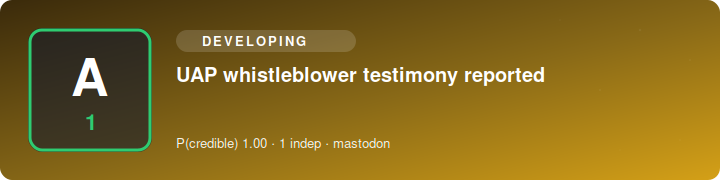
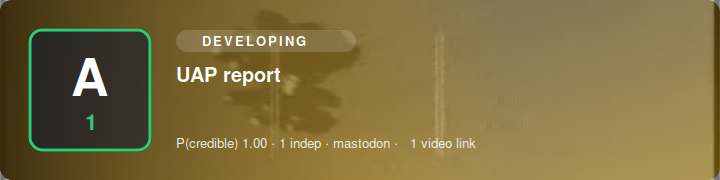
SITREP 2026-07-26 22:10 UTC

diff --git a/index.html b/index.html
@@ -1,1 +1,1 @@
-<!doctype html><meta charset=utf-8><title>Science Bob News — SITREP</title><style>body{font:16px/1.5 system-ui,sans-serif;max-width:760px;margin:2rem auto;padding:0 1rem;color:#111}h1{font-size:1.5rem}h2{margin-top:1.6rem;border-bottom:1px solid #ddd;padding-bottom:.2rem}ul{list-style:none;padding:0}li{margin:.9rem 0}.hl{font-weight:600}.meta{color:#555;font-size:.85rem}.src{font-size:.85rem}.vid{font-size:.85rem;margin-top:.15rem}.card{display:block;max-width:100%;height:auto;border-radius:8px;margin:.4rem 0 .5rem}.upd{background:#fde68a;padding:0 .3rem;border-radius:.2rem;font-size:.75rem}.sub{color:#777;font-size:.85rem}footer{color:#777;font-size:.8rem;margin-top:2rem;border-top:1px solid #ddd;padding-top:.6rem}</style><h1>🛸 Science Bob News</h1><div class="sub">UAP / UFO / USO SITREP · updated 2026-07-26 22:00 UTC · automated</div><h2>Corroborated</h2><ul><li><img class="card" src="https://n4hy.github.io/sciencebobnews-site/card_c_1.svg" alt="" width="720" height="180"><div class="hl">UAP report</div><div class="meta">reliability <b>A1</b> · P(credible)=1.0 · 2 independent source(s) · mastodon</div><div class="src"><a href="https://tristanmowrey.com/2026/07/24/uap-video/">@tristanmowrey@tristanmowrey.com</a> · <a href="https://mysterioustimes.co.uk/2026/07/26/short-story-sunday-the-tide-between-the-stars/">@kdraven@mysterioustimes.co.uk</a></div><div class="vid">📹 <a href="https://youtu.be/QEWgEDRv_6c">video</a></div></li></ul><h2>Developing / unconfirmed</h2><ul><li><img class="card" src="https://n4hy.github.io/sciencebobnews-site/card_d_1.svg" alt="" width="720" height="180"><div class="hl">UAP report</div><div class="meta">reliability <b>A1</b> · P(credible)=1.0 · 1 independent source(s) · mastodon</div><div class="src"><a href="https://mamot.fr/@lacaverneeclairee/116986840363279797">@lacaverneeclairee@mamot.fr</a></div></li><li><img class="card" src="https://n4hy.github.io/sciencebobnews-site/card_d_2.svg" alt="" width="720" height="180"><div class="hl">Official UAP statement reported</div><div class="meta">reliability <b>A1</b> · P(credible)=1.0 · 1 independent source(s) · mastodon</div><div class="src"><a href="https://mastodon.au/@vibewire/116988203427523425">@vibewire@mastodon.au</a></div></li><li><img class="card" src="https://n4hy.github.io/sciencebobnews-site/card_d_3.svg" alt="" width="720" height="180"><div class="hl">UAP whistleblower testimony reported</div><div class="meta">reliability <b>A1</b> · P(credible)=1.0 · 1 independent source(s) · mastodon</div><div class="src"><a href="https://mastodon.social/@ScienceBob/116988366708384724">@ScienceBob</a></div></li><li><img class="card" src="https://n4hy.github.io/sciencebobnews-site/card_d_4.svg" alt="" width="720" height="180"><div class="hl">UAP report (Usa)</div><div class="meta">reliability <b>A1</b> · P(credible)=1.0 · 1 independent source(s) · mastodon</div><div class="src"><a href="https://bsky.brid.gy/r/https://bsky.app/profile/did:plc:ahhoo6g75dgdbrumz3eosoax/post/3mrk6knuhbc2g">@willamateurish.bsky.social@bsky.brid.gy</a></div></li><li><img class="card" src="https://n4hy.github.io/sciencebobnews-site/card_d_5.svg" alt="" width="720" height="180"><div class="hl">UAP report</div><div class="meta">reliability <b>A1</b> · P(credible)=1.0 · 2 independent source(s) · mastodon</div><div class="src"><a href="https://www.nytimes.com/2026/07/26/us/paul-andrews-dead.html">@nyt_us@robot.villas</a> · <a href="https://www.nytimes.com/2026/07/26/us/paul-andrews-dead.html">@nyt_science@robot.villas</a></div></li></ul><footer><b>Powered by Science Bob News.</b> Free to use with credit (see LICENSE). Headlines are factual restatements in the engine's own words; click sources for originals. Single-origin reposts collapse to one source; prosaic candidates flagged where offered.</footer>
+<!doctype html><meta charset=utf-8><title>Science Bob News — SITREP</title><style>body{font:16px/1.5 system-ui,sans-serif;max-width:760px;margin:2rem auto;padding:0 1rem;color:#111}h1{font-size:1.5rem}h2{margin-top:1.6rem;border-bottom:1px solid #ddd;padding-bottom:.2rem}ul{list-style:none;padding:0}li{margin:.9rem 0}.hl{font-weight:600}.meta{color:#555;font-size:.85rem}.src{font-size:.85rem}.vid{font-size:.85rem;margin-top:.15rem}.card{display:block;max-width:100%;height:auto;border-radius:8px;margin:.4rem 0 .5rem}.upd{background:#fde68a;padding:0 .3rem;border-radius:.2rem;font-size:.75rem}.sub{color:#777;font-size:.85rem}footer{color:#777;font-size:.8rem;margin-top:2rem;border-top:1px solid #ddd;padding-top:.6rem}</style><h1>🛸 Science Bob News</h1><div class="sub">UAP / UFO / USO SITREP · updated 2026-07-26 22:10 UTC · automated</div><h2>Corroborated</h2><ul><li><i>No corroborated reports.</i></li></ul><h2>Developing / unconfirmed</h2><ul><li><img class="card" src="https://n4hy.github.io/sciencebobnews-site/card_d_1.svg" alt="" width="720" height="180"><div class="hl">UAP report</div><div class="meta">reliability <b>A1</b> · P(credible)=1.0 · 1 independent source(s) · mastodon</div><div class="src"><a href="https://mamot.fr/@lacaverneeclairee/116986840363279797">@lacaverneeclairee@mamot.fr</a></div></li><li><img class="card" src="https://n4hy.github.io/sciencebobnews-site/card_d_2.svg" alt="" width="720" height="180"><div class="hl">UAP whistleblower testimony reported</div><div class="meta">reliability <b>A1</b> · P(credible)=1.0 · 1 independent source(s) · mastodon</div><div class="src"><a href="https://mastodon.social/@ScienceBob/116988523994448104">@ScienceBob</a></div></li><li><img class="card" src="https://n4hy.github.io/sciencebobnews-site/card_d_3.svg" alt="" width="720" height="180"><div class="hl">UAP report</div><div class="meta">reliability <b>A1</b> · P(credible)=1.0 · 1 independent source(s) · mastodon</div><div class="src"><a href="https://tristanmowrey.com/2026/07/24/uap-video/">@tristanmowrey@tristanmowrey.com</a></div><div class="vid">📹 <a href="https://youtu.be/QEWgEDRv_6c">video</a></div></li></ul><footer><b>Powered by Science Bob News.</b> Free to use with credit (see LICENSE). Headlines are factual restatements in the engine's own words; click sources for originals. Single-origin reposts collapse to one source; prosaic candidates flagged where offered.</footer>

diff --git a/sitrep.md b/sitrep.md
@@ -1,13 +1,8 @@
 # 🛸 Science Bob News — UAP / UFO / USO SITREP
-*Updated 2026-07-26 22:00 UTC · auto-generated · sources credited & linked · reliability ratings are automated, not editorial*
+*Updated 2026-07-26 22:10 UTC · auto-generated · sources credited & linked · reliability ratings are automated, not editorial*
 
 ## Corroborated
-
-![UAP report](https://n4hy.github.io/sciencebobnews-site/card_c_1.svg)
-1. **UAP report**  
-   reliability **A1** · P(credible)=1.0 · 2 independent source(s) · mastodon  
-   [@tristanmowrey@tristanmowrey.com](https://tristanmowrey.com/2026/07/24/uap-video/) · [@kdraven@mysterioustimes.co.uk](https://mysterioustimes.co.uk/2026/07/26/short-story-sunday-the-tide-between-the-stars/)  
-   📹 [video](https://youtu.be/QEWgEDRv_6c)
+_No corroborated reports this cycle._
 
 ## Developing / unconfirmed
 
@@ -15,21 +10,14 @@
 1. UAP report — reliability A1 · 1 source(s)  
    [@lacaverneeclairee@mamot.fr](https://mamot.fr/@lacaverneeclairee/116986840363279797)
 
-![Official UAP statement reported](https://n4hy.github.io/sciencebobnews-site/card_d_2.svg)
-2. Official UAP statement reported — reliability A1 · 1 source(s)  
-   [@vibewire@mastodon.au](https://mastodon.au/@vibewire/116988203427523425)
+![UAP whistleblower testimony reported](https://n4hy.github.io/sciencebobnews-site/card_d_2.svg)
+2. UAP whistleblower testimony reported — reliability A1 · 1 source(s)  
+   [@ScienceBob](https://mastodon.social/@ScienceBob/116988523994448104)
 
-![UAP whistleblower testimony reported](https://n4hy.github.io/sciencebobnews-site/card_d_3.svg)
-3. UAP whistleblower testimony reported — reliability A1 · 1 source(s)  
-   [@ScienceBob](https://mastodon.social/@ScienceBob/116988366708384724)
-
-![UAP report (Usa)](https://n4hy.github.io/sciencebobnews-site/card_d_4.svg)
-4. UAP report (Usa) — reliability A1 · 1 source(s)  
-   [@willamateurish.bsky.social@bsky.brid.gy](https://bsky.brid.gy/r/https://bsky.app/profile/did:plc:ahhoo6g75dgdbrumz3eosoax/post/3mrk6knuhbc2g)
-
-![UAP report](https://n4hy.github.io/sciencebobnews-site/card_d_5.svg)
-5. UAP report — reliability A1 · 2 source(s)  
-   [@nyt_us@robot.villas](https://www.nytimes.com/2026/07/26/us/paul-andrews-dead.html) · [@nyt_science@robot.villas](https://www.nytimes.com/2026/07/26/us/paul-andrews-dead.html)
+![UAP report](https://n4hy.github.io/sciencebobnews-site/card_d_3.svg)
+3. UAP report — reliability A1 · 1 source(s)  
+   [@tristanmowrey@tristanmowrey.com](https://tristanmowrey.com/2026/07/24/uap-video/)  
+   📹 [video](https://youtu.be/QEWgEDRv_6c)
 
 ---
 *Powered by Science Bob News. Free to use with credit (see LICENSE). Headlines are factual restatements in the engine's own words — click through to the linked sources for originals. Reposts of a single origin are collapsed to one source; candidate prosaic explanations are flagged where offered.*
